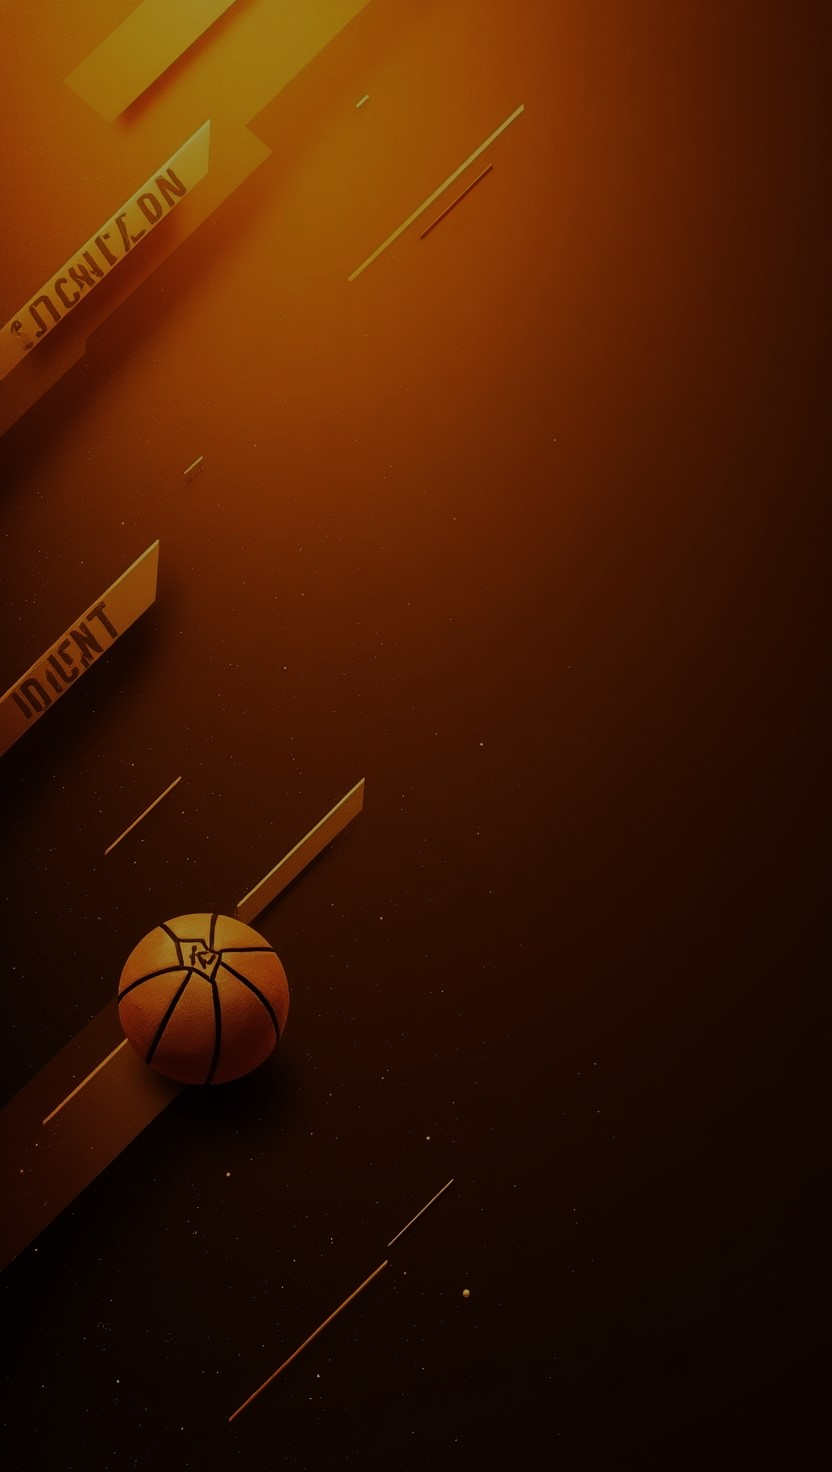
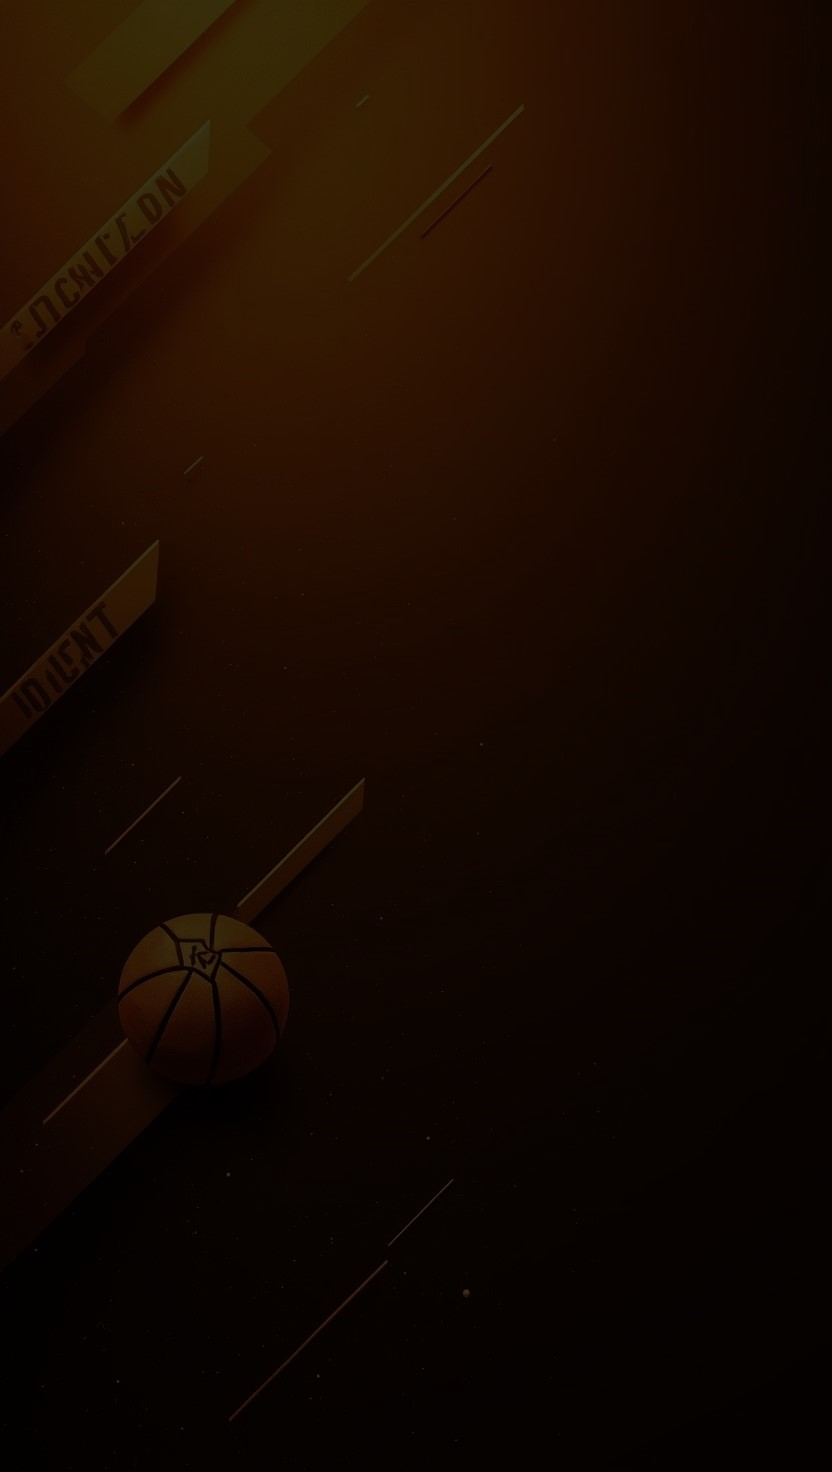
add: 404 page, fix: code errors from linting, improve: contrast on game cards

diff --git a/static/assets/js/script.js b/static/assets/js/script.js
@@ -2,7 +2,7 @@ function closePopup(){ this.classList.toggle("hidden"); }
 
 function toggleMenu(){
     MENU.classList.toggle("open");
-    this.classList.toggle("reverse-toggler")
+    this.classList.toggle("reverse-toggler");
 }
 
 function displayConfirmationModal(){
@@ -18,14 +18,15 @@ function docLoaded(){
     YES.addEventListener("click", () => {
         if (link) window.location.href = link;
         else postForm = document.getElementsByTagName("form")[0].submit();
-       })
+       });
 
     NO.addEventListener("click", () => {
         MODAL.classList.toggle("hidden");
-    })
+    });
     
-    for (el of document.getElementsByClassName("modal-activator")) 
+    for (let el of document.getElementsByClassName("modal-activator")){
         el.addEventListener("click", displayConfirmationModal);
+    }
 }
 
 const MENU = document.getElementById("menu-options");
@@ -33,5 +34,6 @@ const YES = document.getElementById("yes");
 const NO = document.getElementById("no");
 const MODAL = document.getElementById("modal-container");
 let link = "";
+let postForm = null;
 
 document.onload = docLoaded();

diff --git a/static/assets/css/style.css b/static/assets/css/style.css
@@ -60,7 +60,7 @@ body {
     background-color: var(--whitish);
     position: relative;
     top: 50%;
-    translate: 0 -100%;
+    transform: translate(0, -100%);
     border-radius: 6px;
     box-shadow: 0 0 5px 5px white;
     border: 1px solid black;
@@ -84,7 +84,7 @@ body {
 #popup-message {
     position: fixed;
     left: 50%;
-    translate: -50% 0%;
+    transform: translate(-50%, 0%);
     top: 5%;
     box-sizing: border-box;
     z-index: 10;
@@ -170,7 +170,7 @@ body {
     height: 180px;
     background-color: rgba(0, 0, 0, 0.8);
     border-radius: 0 50% 50% 0;
-    translate: 235px;
+    transform: translate(235px);
     color: var(--accent);
     justify-content: center;
     align-items: center;
@@ -231,7 +231,7 @@ body {
 
 .game-card:hover{
     filter: brightness(140%);
-    transform: scale(105%);
+    transform: scale(1.05);
     z-index: 3;
 }
 
@@ -392,7 +392,7 @@ body {
     width: 70px;
 }
 
-#remove-comment-button {
+.remove-comment-button {
     font-size: small;
     height: fit-content;
     width: fit-content;

diff --git a/games_display/templates/game-info.html b/games_display/templates/game-info.html
@@ -101,7 +101,7 @@
         <hr>
         {% for player in players %}
             <div class="joining-player">
-                <a href="{% url 'profile' player.username %}">{{ player.username }}</a>
+                <a>TODO: ADD HREF TO ELEMENT FOR USER PROFILE</a>
                 <div>TODO: star</div>
             </div>
         {% endfor %}
@@ -116,9 +116,8 @@
                 <div class="small-info">
                     {{ c.creator }} on {{ c.created_on|date:'j.n.y - H:i' }}
                         {% if c.creator.id == request.user.id %}
-                            <div id="remove-comment-button" 
-                                class="button-temp red modal-activator"
-                                data-action="{% url 'remove_comment' c.id %}"
+                            <div class="button-temp red modal-activator remove-comment-button"
+                                 data-action="{% url 'remove_comment' c.id %}"
                                 >remove</div>
                         {% endif %}
                 </div> 

diff --git a/templates/index.html b/templates/index.html
@@ -34,7 +34,7 @@
 
     <main>
         <div id="grid-container">
-            <section id="menu-options" class="open">
+            <aside id="menu-options" class="open">
                 <div id="menu-toggler" class="hidden">&gt;</div>
 
                 {% if not user.is_authenticated %}
@@ -52,7 +52,7 @@
                         <a href="{% url 'create_game' %}">Create new game</a>
                     </nav>
                 {% endif %}
-            </section>
+            </aside>
 
             <section id="games-container">
                 {% block main %}

diff --git a/templates/404.html b/templates/404.html
@@ -1,0 +1,9 @@
+{% extends "index.html" %}
+
+{% block main %}
+<div class="text-description-in-flex">
+    <h2>OOPS - ERROR 404</h2>
+    <hr>
+    <h2>WE COULDN'T QUITE FIND THIS PAGE, PLEASE USE NAVIGATION ON THE LEFT</h2>
+</div>
+{% endblock %}

diff --git a/games_display/templates/display.html b/games_display/templates/display.html
@@ -2,7 +2,7 @@
 
 {% block main %}
     <div class="text-description-in-flex">
-        <h2>GAMES MATCHING FILTERS</h2>
+        <h2>AVAILABLE GAMES</h2>
         <hr>
     </div>
 

diff --git a/zagreballer/settings.py b/zagreballer/settings.py
@@ -29,7 +29,7 @@ STATIC_ROOT = os.path.join(BASE_DIR, 'staticfiles')
 SECRET_KEY = os.environ.get("SECRET_KEY")
 
 # SECURITY WARNING: don't run with debug turned on in production!
-DEBUG = True
+DEBUG = False
 ALLOWED_HOSTS = ["127.0.0.1", ".herokuapp.com"]
 
 CSRF_TRUSTED_ORIGINS = [

diff --git a/user_accounts/urls.py b/user_accounts/urls.py
@@ -11,5 +11,4 @@ urlpatterns = [
         views.show_personal_profile,
         name="my_profile"
         ),
-    path('<slug:slg>', views.show_profile, name="profile"),
     ]
